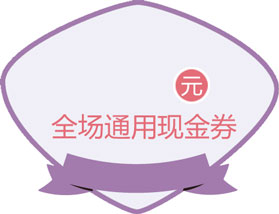
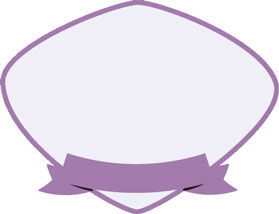
修改优惠券样式

Changed region(s): [[0.172, 0.5327, 0.8602, 0.6729], [0.6022, 0.3084, 0.7455, 0.4766]]

diff --git a/site/src/main/webapp/WEB-INF/bufeng/css/style.css b/site/src/main/webapp/WEB-INF/bufeng/css/style.css
@@ -1373,7 +1373,10 @@ header .container a{display:inline-block;height:100%;color:#fff;}
 .window-content .middle .text a{text-decoration:underline;color:#e46e79;}
 .window-content .bottom{text-align:center;margin-top:5%;}
 .window-content .bottom img{height:30px;}
-.window-content .middle .coupon-num{position:absolute;color:#e46d78;bottom:59%;right:40%;width:20%;font-size:45px;line-height:45px;font-size:14vw;line-height:14vw;}
+.window-content .coupon{width:70%;margin:0 auto;}
+.window-content .coupon .status{bottom:12%;font-size:14px;font-size:4vw;}
+.window-content .coupon .num{font-size:48px;line-height:48px;font-size:15vw;line-height:15vw;}
+.window-content .coupon .cdesc{font-size:16px;font-size:5vw;}
 .card-box .sold-out{
 	background-image:url(../images/new/sold-out.png);width:60%;height:80%;
 	position:absolute;
@@ -1386,9 +1389,12 @@ header .container a{display:inline-block;height:100%;color:#fff;}
 .color-empty-gray{color:#bcb1b1;}
 .coupon-list{overflow:hidden;}
 .coupon-list .coupon{width:46%;float:left;margin:5% 2% 0 2%;}
-.coupon-list .coupon .num{position:absolute;color:#e46d78;bottom:49%;right:40%;font-size:38px;line-height:38px;font-size:12vw;line-height:12vw;}
-.coupon-list .coupon .status{position:absolute;color:#fff;bottom:11%;right:36%;width:30%;text-align:center;font-size:12px;font-size:3.5vw;}
-.coupon-list .coupon .desc{color:#7d7d7d;text-align:center;font-size:12px;margin-top:12px;width:80%;margin:12px auto 0 auto;line-height:20px;}
+.coupon .num-panel{position:absolute;color:#e46d78;bottom:49%;right:20%;width:60%}
+.coupon .num{font-size:44px;line-height:44px;font-size:12vw;line-height:12vw;vertical-align:middle;}
+.coupon .cdesc{position:absolute;bottom:29%;left:0;width:100%;font-size:14px;font-size:4.5vw;color:#e46d78;}
+.coupon .status{position:absolute;color:#fff;bottom:11%;right:36%;width:30%;text-align:center;font-size:12px;font-size:3.5vw;}
+.coupon .desc{color:#7d7d7d;text-align:center;font-size:12px;margin-top:12px;width:80%;margin:12px auto 0 auto;line-height:18px;}
+.window-content .middle .unit,.coupon .unit{display:inline-block;width:20px;line-height:20px;font-size:14px;background-color:#e46d78;border-radius:50%;border:2px solid #fff;color:#fff;vertical-align:bottom;}
 .coupon-exchange{margin-top:20px;color:#7d7d7d;font-size:14px;line-height:20px;}
 .coupon-exchange .head .link{font-size:140px;line-height:140px;font-size:44vw;line-height:44vw;bottom:30%;right:35%;color:#a37bad;}
 .h-box{display:-webkit-box;-webkit-box-orient:horizontal;}

diff --git a/site/src/main/webapp/WEB-INF/bufeng/coupon/coupon_window.html b/site/src/main/webapp/WEB-INF/bufeng/coupon/coupon_window.html
@@ -1,13 +1,26 @@
 <!--恭喜获得优惠券弹窗，不同的弹窗更新里面的图片和文字即可-->
-<div th:fragment="couponWindow(couponValue,couponDesc,visible)" th:remove="tag">
-    <div th:class="${(visible!=null and visible==true)?'window':'window none'}">
+<div th:fragment="couponWindow(couponValue,couponDesc,visible,couponType)" th:remove="tag">
+    <div th:class="${!(visible!=null and visible==true)?'window':'window none'}">
         <div class="window-content">
             <div class="head">
                 <div class="container">恭喜获得</div>
             </div>
             <div class="middle">
-                <img th:src="@{/images/new/coupon/coupon_1_bg.jpg}" width="60%"/>
-                <span class="coupon-num" th:text="${couponValue}" th:style="'right:'+${couponValue!=null and couponValue.length() gt 1?'43%':'40%'}"></span>
+                <!--<img th:src="@{/images/new/coupon/coupon_1_bg.jpg}" width="60%"/>-->
+                <!--<div class="coupon-num-panel">-->
+                    <!--<span class="num" th:text="${couponValue}"></span><span class="unit">元</span>-->
+                <!--</div>-->
+                <!--<div class="coupon-desc">全场通用现金券</div>-->
+                <!--<div class="text"  th:text="${couponDesc}"></div>-->
+                <!--<div class="text">已存入“卡券”中了哟，<a th:href="@{/manage/couponAndFiveCard}">立刻查看</a>！</div>-->
+                <div class="coupon">
+                    <div class="img-panel">
+                        <img th:src="@{${couponType=='4'||couponType=='5'?'/images/new/coupon/coupon_2_bg.png':'/images/new/coupon/coupon_1_bg.jpg'}}"/>
+                        <a class="num-panel"><span class="num" th:text="${couponValue}">5</span><span class="unit">元</span></a>
+                        <span class="cdesc">全场通用现金券</span>
+                        <span class="status">未兑换</span>
+                    </div>
+                </div>
                 <div class="text" th:if="${couponDesc!=''}" th:text="${couponDesc}"></div>
                 <div class="text">已存入“卡券”中了哟，<a th:href="@{/manage/couponAndFiveCard}">立刻查看</a>！</div>
             </div>

diff --git a/site/src/main/webapp/WEB-INF/bufeng/fivecard/activity-guide.html b/site/src/main/webapp/WEB-INF/bufeng/fivecard/activity-guide.html
@@ -54,14 +54,16 @@
 				<div class="h-box"><div style="width:15px">4.</div><div class="flex">
 					每个微信ID至多可获得一张电子五折卡；
 				</div></div>
-				<div class="h-box"><div style="width:15px">5.</div><div class="flex">
-					每卡限返利一次；
-				</div></div>
 
 			</div></div>
 			<div class="h-box"><div style="width:25px">七、</div><div class="flex">
 				【线下购物返利】<br/>
-				五折卡【被分享者】于5月20日-22日至卜蜂莲花活动门店使用对应电子五折卡购物，单次消费满200元即可获取现金券验证码1张，使用微信活动页面中的【扫一扫】扫描该验证码，【被分享者及对应分享者】均可获得5元全场通用现金券1张；获得的现金券凭证进入【卡券】，至对应门店服务台领取纸质现金券即可；
+				<div class="h-box"><div style="width:15px">1.</div><div class="flex">
+					五折卡【被分享者】于5月20日-22日至卜蜂莲花活动门店使用对应电子五折卡购物，单次消费满200元即可获取现金券验证码1张，使用微信活动页面中的【扫一扫】扫描该验证码，【被分享者及对应分享者】均可获得5元全场通用现金券1张；获得的现金券凭证进入【卡券】，至对应门店服务台领取纸质现金券即可；
+				</div></div>
+				<div class="h-box"><div style="width:15px">2.</div><div class="flex">
+					每卡限返利一次；
+				</div></div>
 			</div></div>
 			<div class="h-box"><div style="width:25px">八、</div><div class="flex">
 				在获取和使用奖品中，如果出现违规行为（作弊领取、恶意套现、刷取信誉、虚假交易等），卜蜂莲花将取消您的中奖资格，并有权撤销违规交易，追回奖品，必要时追究法律责任；如出现不可抗力或情势变更的情况（包括但不限于重大自然灾害事件、活动受政府机关指令需要停止或调整的，活动遭受严重网络攻击或因系统故障需要暂停举办的），则卜蜂莲花可依相关法律法规的规定主张免责；

diff --git a/site/src/main/webapp/WEB-INF/bufeng/wodekajuan.html b/site/src/main/webapp/WEB-INF/bufeng/wodekajuan.html
@@ -49,14 +49,15 @@
             <div class="desc" th:text="${card.status?'请于2016年5月20日-22日至各活动门店使用':'请于2016年5月19日前激活使用'}">请于2020年使用</div>
         </div>
         <div class="coupon" th:if="${card.type==1}"
-             th:attr="data-card-status=${card.status},data-type=${card.type},data-coupon-xref=${card.id}">
+             th:attr="data-card-status=${card.status},data-type=${card.type},data-coupon-xref=${card.id},coupontype=${card.couponType}">
             <div class="img-panel">
-                <img th:src="@{/images/new/coupon/coupon_1_bg.jpg}"/>
-                <a class="num" th:text="${card.value}">5</a>
+                <img th:src="@{${card.couponType==4||card.couponType==5?'/images/new/coupon/coupon_2_bg.png':'/images/new/coupon/coupon_1_bg.jpg'}}"/>
+                <a class="num-panel"><span class="num" th:text="${card.value}">5</span><span class="unit">元</span></a>
+                <span class="cdesc">全场通用现金券</span>
                 <span class="status" th:if="${card.status}">已兑换</span>
                 <span class="status" th:unless="${card.status}">未兑换</span>
             </div>
-            <div class="desc">请于2016年5月19日-22日至各活动服务台领取</div>
+            <div class="desc" th:text="${card.couponType==4||card.couponType==5?'请于2016年5月20日-6月1日至各活动服务台领取':'请于2016年5月20日-5月22日至各活动服务台领取'}"></div>
         </div>
         <div style="float:left;width:100%;height:1px;" th:if="${iterStat.index%2==1}"></div>
     </div>

diff --git a/site/src/main/webapp/WEB-INF/bufeng/layout/home.html b/site/src/main/webapp/WEB-INF/bufeng/layout/home.html
@@ -68,7 +68,7 @@
 <blc:form th:id="addToCartForm" th:action="@{/cart/add}"></blc:form>
 <!-- A卡用户通过分享获取优惠券时的通知浮层 -->
 <div th:if="${showNewShareCouponDialog}" th:remove="tag">
-    <div th:replace="/coupon/coupon_window::couponWindow('5','',${showNewShareCouponDialog})"></div>
+    <div th:replace="/coupon/coupon_window::couponWindow(${param.couponValue!=null?param.couponValue[0]:'5'},${param.couponDesc!=null?param.couponDesc[0]:''},${showNewShareCouponDialog},${param.couponType!=null?param.couponType[0]:'1'})"></div>
 </div>
 <!-- 通知用户激活五折卡浮层 -->
 <div th:if="${session.showFiveCardAlert}" th:remove="tag">

diff --git a/site/src/main/webapp/WEB-INF/bufeng/account/orderHistory.html b/site/src/main/webapp/WEB-INF/bufeng/account/orderHistory.html
@@ -79,7 +79,7 @@
     </div>
 </div>
 <!---->
-<div th:if="${showCoupon==true and couponValue== 5}" th:replace="/coupon/coupon_window::couponWindow(${couponValue},'',${showCoupon})"></div>
+<div th:if="${showCoupon==true and couponValue== 5}" th:replace="/coupon/coupon_window::couponWindow(${couponValue},'',${showCoupon},'')"></div>
 <div class="footer"></div>
 <div th:replace="partials/footer::footer"></div>
 </body>
